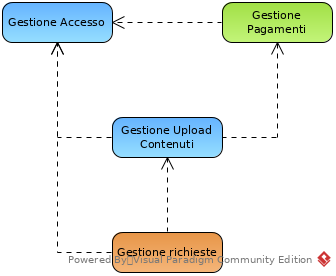
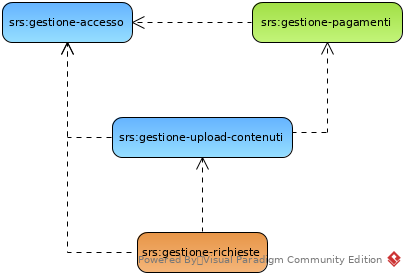
Fixed typo and ambiguity issue in requirements
- Fixed typo in requirements analysis

- Changed requirements dependencies name as UID

    es. "Gestione accesso" => "srs:gestione-accesso"

diff --git a/docs/src/requirements-analysis.rst b/docs/src/requirements-analysis.rst
@@ -214,7 +214,7 @@ Gestione richieste
 +-----------------+-----------------------------------------------------------+
 | **Requisiti**   | * Visualizzazione lista e stato di avanzamento delle      |
 | **funzionali**  |   richieste in fase di elaborazione                       |
-|                 | * Visualizzazione e modifica informazionsui file          |
+|                 | * Visualizzazione e modifica informazioni sui file        |
 |                 | * Cancellazione richieste precedenti                      |
 |                 | * Ricerca di testo nei file caricati e visualizzazione    |
 |                 |   dei risultati                                           |
